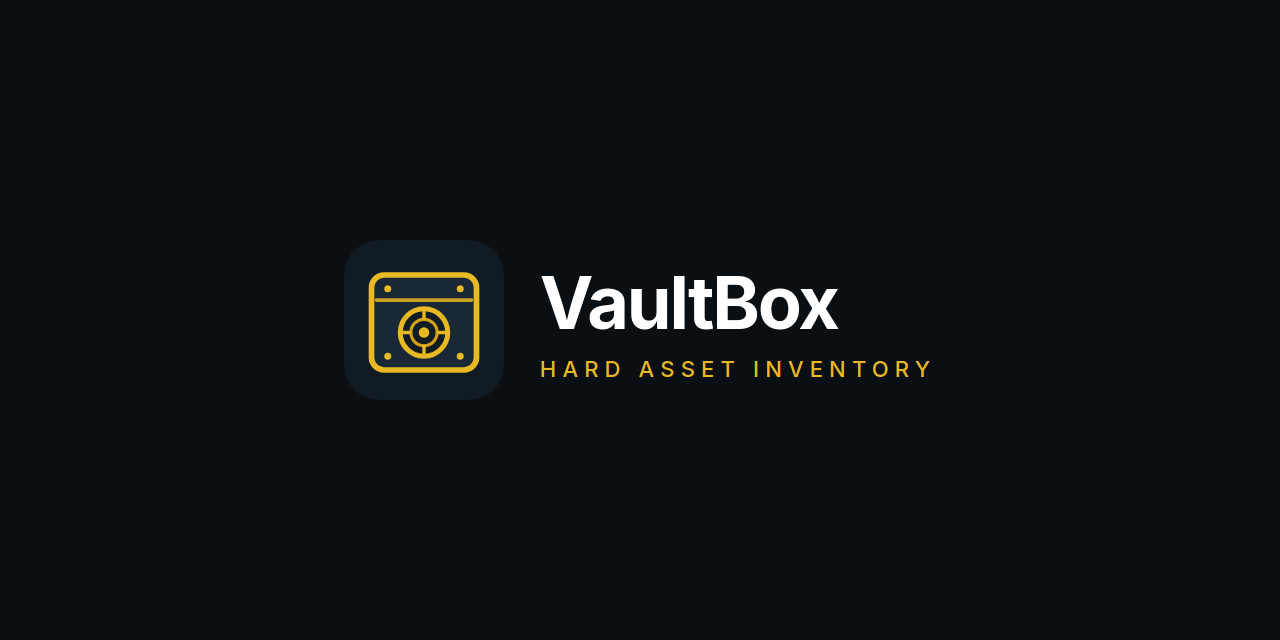
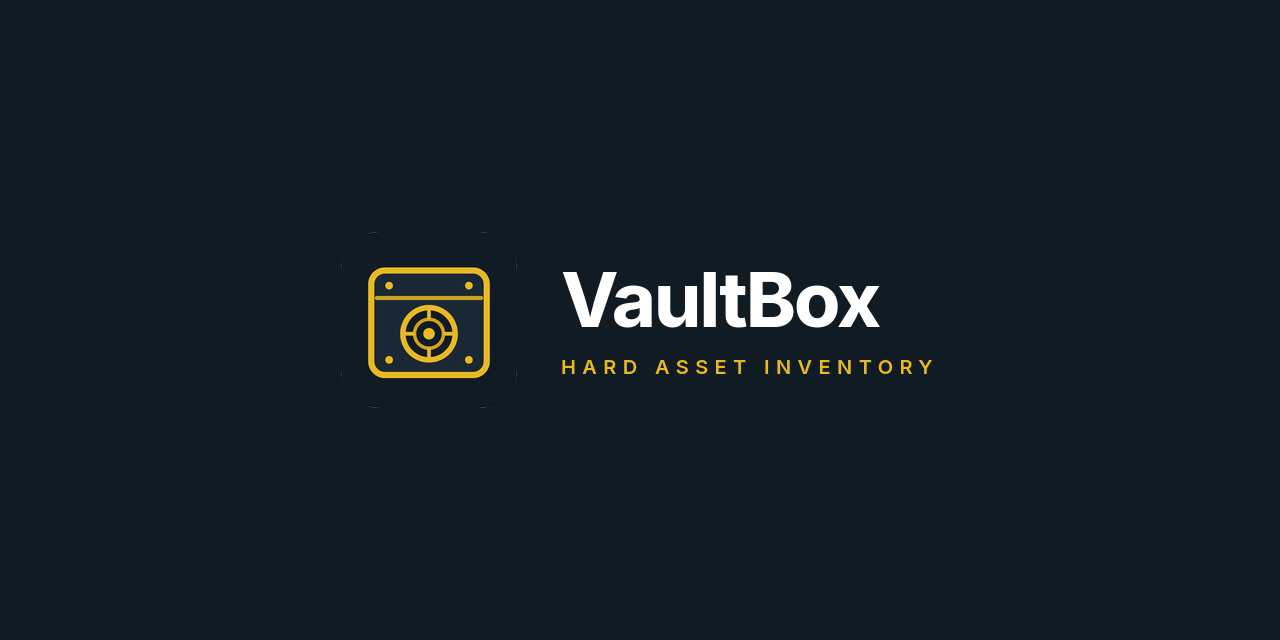
Refresh the 1280x640 Open Graph card for GitHub social preview.

Changed region(s): [[0.2812, 0.4062, 0.75, 0.5938]]

diff --git a/docs/brand/social-preview.html b/docs/brand/social-preview.html
@@ -1,0 +1,55 @@
+<!DOCTYPE html>
+<html lang="en">
+<head>
+  <meta charset="utf-8">
+  <link rel="preconnect" href="https://fonts.googleapis.com">
+  <link href="https://fonts.googleapis.com/css2?family=Inter:wght@600;750&display=swap" rel="stylesheet">
+  <style>
+    html, body {
+      margin: 0;
+      width: 1280px;
+      height: 640px;
+      overflow: hidden;
+      background: #111b24;
+      font-family: Inter, "Noto Sans", "Liberation Sans", sans-serif;
+    }
+    .row {
+      display: flex;
+      align-items: center;
+      justify-content: center;
+      height: 640px;
+      gap: 44px;
+    }
+    .mark {
+      width: 176px;
+      height: 176px;
+      border-radius: 40px;
+      display: block;
+    }
+    h1 {
+      margin: 0;
+      color: #ffffff;
+      font-size: 76px;
+      font-weight: 750;
+      letter-spacing: -0.03em;
+      line-height: 1;
+    }
+    p {
+      margin: 18px 0 0;
+      color: #e8b923;
+      font-size: 20px;
+      font-weight: 600;
+      letter-spacing: 0.32em;
+    }
+  </style>
+</head>
+<body>
+  <div class="row">
+    <img class="mark" src="logo.png" alt="">
+    <div>
+      <h1>VaultBox</h1>
+      <p>HARD ASSET INVENTORY</p>
+    </div>
+  </div>
+</body>
+</html>
